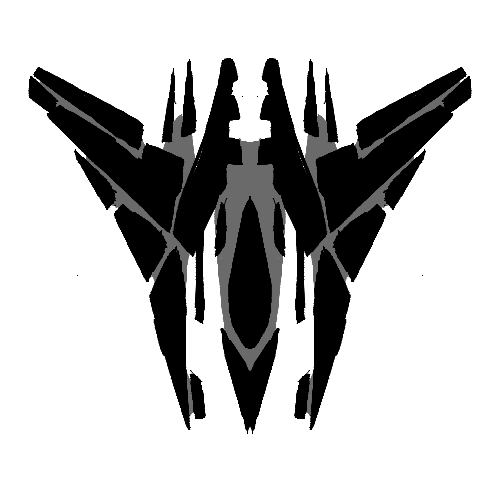
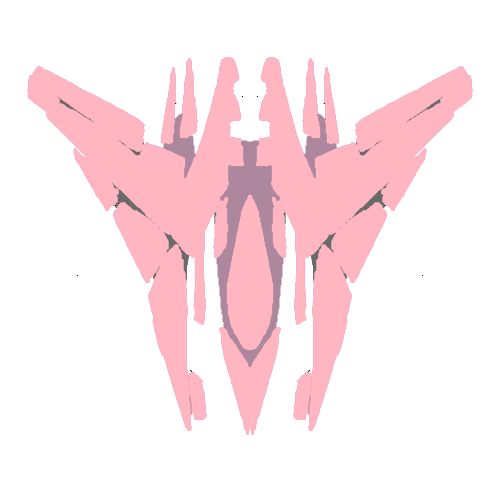
MVP 1.0.1 and styling

Changed region(s): [[0.03, 0.09, 0.96, 0.87]]

diff --git a/rls.js b/rls.js
@@ -77,8 +77,8 @@ function inpHandle(e) {
             score = 0
             enemyTimer = 0
             player = new Player(350, 100, 'rgba(0, 0, 0, 0)', 100, 100)
-            slab = new Tetromino(50, 600, 'rgba(158, 194, 233, 0.7)', 100, 300)
-            quad = new Tetromino(700, 600, 'rgba(216, 14, 78, 0.7)', 200, 200)
+            slab = new Tetromino(50, 600, '#a1edd1', 100, 300)
+            quad = new Tetromino(700, 600, '#a1a2ed', 200, 200)
         break
 
         // experimental bullet functionality
@@ -188,16 +188,16 @@ class Tetromino {
 }
 
 // just to get game to function on tick 1 idk why
-slab = new Tetromino(50, 600, 'rgba(158, 194, 233, 0.7)', 100, 300)
-quad = new Tetromino(700, 600, 'rgba(216, 14, 78, 0.7)', 200, 200)
+slab = new Tetromino(50, 600, '#a1edd1', 100, 300)
+quad = new Tetromino(700, 600, '#a1a2ed', 200, 200)
 
 // randomize block type and spawn location
 function minoSummon(){
     if(enemyTimer % 60 == 0){
-        quad = new Tetromino(Math.random() * (canvas.width - 50), 600, 'rgba(216, 14, 78, 0.7)', 200, 200)
+        quad = new Tetromino(Math.random() * (canvas.width - 50), 600, '#a1a2ed', 200, 200)
     }
     if(enemyTimer % 150 == 0){
-        slab = new Tetromino(Math.random() * (canvas.width - 300), 600, 'rgba(158, 194, 233, 0.7)', 100, 300)
+        slab = new Tetromino(Math.random() * (canvas.width - 300), 600, '#a1edd1', 100, 300)
     }
 }
   
@@ -214,20 +214,26 @@ function animate(){
     slab.render()
     player.render()
     detectHit()
-    ctx.fillStyle = '#bada55'
-    ctx.fillText('blocks passed: ' + score, 799, 19)
+    ctx.fillStyle = 'rgb(253, 226, 229)'
+    ctx.fillText('I blocks passed: ' + score, 799, 19)
     // ctx.fillStyle = 'rgba(39, 9, 239, 0.2)'
     if(enemyTimer < 120){
-    ctx.fillText('use WASD for arrow keys.', 100, 138)
-    ctx.fillText('dodge the Tetrominos.', 100, 158)
-    ctx.fillText('dodged', 100, 178)
+        ctx.strokeStyle = 'lightpink'
+        ctx.fillStyle = 'rgb(253, 226, 229)'
+        ctx.strokeText('WASD steers your vessel.', 500, 138)
+        ctx.fillText('WASD steers your vessel.', 500, 138)
+        ctx.strokeText('steer around Tetromino blocks. ', 500, 158)
+        ctx.fillText('steer around Tetromino blocks. ', 500, 158)
+        ctx.strokeText('flying past I blocks give 4 points.', 500, 178)
+        ctx.fillText('flying past I blocks give 4 points.', 500, 178)
     }
+    ctx.fillStyle = 'rgb(253, 226, 229)'
     ctx.fillText('press enter to restart', 795, 545)
 }
 
 // detection dimensions imported from canvas crawler, game over functionality
 function detectHit() {
-    if(slab.y == 0) {
+    if(slab.y == -200) {
         score += 4
     }
     // canvas crawler hit detection solve
@@ -254,15 +260,15 @@ function detectHit() {
     if(slab.crashed){
         slab.crashed = false
         crashed.play()
-        ctx.fillStyle = 'lightpink'
-        ctx.fillText('You crashed! Press enter to retry!', 300, 400)
+        ctx.fillStyle = 'rgb(253, 226, 229)'
+        ctx.fillText('You crashed! Press enter to retry!', 300, 300)
         clearInterval(frameSec)
     }
     if(quad.crashed){
         quad.crashed = false
         crashed.play()
-        ctx.fillStyle = 'lightpink'
-        ctx.fillText('You crashed! Press enter to retry!', 300, 250)
+        ctx.fillStyle = 'rgb(253, 226, 229)'
+        ctx.fillText('You crashed! Press enter to retry!', 300, 300)
         clearInterval(frameSec)
     }
 }

diff --git a/style.css b/style.css
@@ -14,8 +14,8 @@ body {
 #canvas1 {
     width: 1000px;
     height: 550px;
-    border: 3px solid rgb(104, 39, 39);
-    background-color: black;
+    border: 3px solid lightpink;
+    background-color: rgb(12, 2, 12);
 }
 
 #copyrite {
@@ -31,8 +31,9 @@ body {
 h2 {
     position: absolute;
     top: 0.5%;
-    right: 45%;
+    right: 40%;
     text-align: center;
     color: lightpink;
     font-family: 'OCR A Std', monospace;
+    font-size: 44px;
 }
